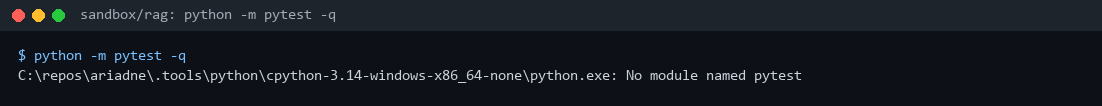
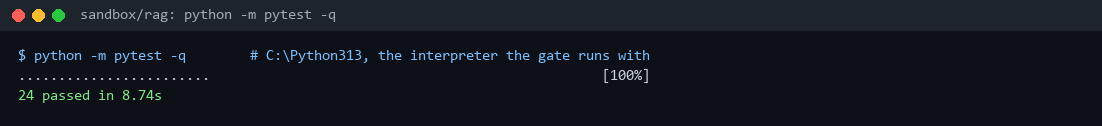
Todo app case study; RAG pytest capture re-taken with the gate's interpreter (the first capture used one without pytest)

diff --git a/case_study/TODO_case_study.md b/case_study/TODO_case_study.md
@@ -1,0 +1,81 @@
+# Case study: a todo app, the coding flow's first full run
+
+The first job Ariadne ran end to end: a small command-line todo app, built in an empty git repo by local models on
+a laptop. It is a small task on purpose. It shows the whole drill working once (brief, gates, plan, sign-off,
+execute, QA, report), and it surfaced most of the harness bugs that the later RAG work would have hit.
+
+**Machine:** RTX 3070 Laptop (8 GB VRAM), 32 GB RAM, Windows 11. llama.cpp b12359 behind llama-swap, Hermes pinned
+at `458a0046ad`. Run date: 17 November 2026.
+
+**Result:** done. Every gate passed after 3 QA rounds: 18 tests, a README and a clean commit (`8480a7e`).
+
+## The brief and its gates
+
+The brief asked for a stdlib-only Python package with JSON storage and five commands (`add`, `list`, `done`,
+`remove`, `clear-done`), stable ids, clear errors, pytest tests and a README, committed when the tests pass.
+
+The gates, written before anything started:
+
+| Gate | Kind |
+|---|---|
+| `python -m pytest -q` passes | command |
+| Every command has a test; unknown ids give a clear error and a non-zero exit | review |
+| After `add a`, `add b`, `remove 1`, `add c`, the ids listed are 2 and 3 | review |
+| README documents every command and the storage-file override | review |
+| The work is committed (clean working tree) | review |
+
+## Four runs to get there
+
+The task itself never changed. The first three runs failed on the harness, not the app:
+
+| Run | What happened | Fix in Ariadne |
+|---|---|---|
+| 1 | Failed at plan: Hermes rejects model and toolset flags when resuming a session | Start each session with full flags, then resume it by id without them |
+| 2 | The dense Qwen3.8 27B ran steps 1-2 for 32 minutes at ~2 tok/s without writing a file | 27B plans only; execution moved to the Qwen3.6 35B-A3B MoE, reasoning set to low |
+| 3 | The 27B's plan ran out of its 15-minute budget, and the KV save then took 411 s | Plan budget raised to 45 minutes; a stopped run now also stops its Hermes gateway |
+| 4 | Done | |
+
+## Run 4
+
+![From brief to done](img/todo-events.png)
+
+**Plan: 35 minutes on the 27B.** Slow, but the best plan of the whole validation. The planner noticed the
+workspace already held a package from run 2, read it, and planned around it:
+- smoke-test the existing code first;
+- tests use `tmp_path`, never the workspace's `todo.json`;
+- a `.gitignore`, so running the tests can't dirty the tree before the "clean tree" gate;
+- the exact id-stability sequence from gate 3 as a test.
+
+**Sign-off:** approved with every step on `qwen3.6-35b-a3b`. The plan's KV cache was parked (17,671 tokens in
+2.1 s) and woken for the checkpoint.
+
+**Execute: 15 minutes on the MoE** (21:39-21:54). Tests, README, `.gitignore` and the commit.
+
+**QA: three rounds for one gate.** The reviewer passed all four review gates every round. The command gate failed
+twice: Ariadne runs gates in the system shell, where `python` was a Python 3.13 without pytest, while the agent had
+run its tests with a different interpreter. On round 3 the agent installed pytest for that interpreter, and every
+gate passed. Each round woke its parked cache in about 2 s (20-27K tokens).
+
+## Checking it myself
+
+The command gate, run the way QA runs it:
+
+![pytest](img/todo-pytest.png)
+
+Gates 2 and 3 by hand: ids stay stable after a removal, and an unknown id fails with a clear message and exit 1:
+
+![Smoke test](img/todo-smoke.png)
+
+## Lessons
+
+1. **Dense models plan well and execute slowly.** On 8 GB the 27B wrote the best plan of the run, but at ~2 tok/s
+   it could not finish a small app. Plan on whatever thinks best; execute on a fast MoE.
+2. **Gates must run in the same environment as the work.** Three QA rounds went to `No module named pytest`. That
+   is now a lesson in the shared planning skill (run every gate command exactly as QA will, and install what it
+   needs there); a per-workspace environment is on the TODO list.
+3. **A good plan checks what is already there.** Starting with a smoke test of existing code instead of rewriting
+   it saved most of the execute time.
+4. **The harness bugs surface on the smallest task.** Resume flags, KV slot overwrites, gateways left generating:
+   all were found here, before the RAG work depended on them.
+
+The RAG design and build, the larger case study, is in [RAG_case_study.md](RAG_case_study.md).

diff --git a/case_study/RAG_case_study.md b/case_study/RAG_case_study.md
@@ -12,7 +12,7 @@ at `458a0046ad`. Run dates: 17-18 November 2026.
 
 | Piece | Status |
 |---|---|
-| Warm-up: todo app (coding flow) | Done. All 5 gates passed, 18 tests. |
+| Warm-up: todo app (coding flow) | Done. All 5 gates passed, 18 tests. Its own case study: [TODO_case_study.md](TODO_case_study.md) |
 | RAG design (design flow) | Done. About 85%, which clears the 80% bar set for it. |
 | RAG build v1 (coding flow) | In progress: QA iteration 3. The core library and 24 tests are done. The real ingest, README transcripts and eval are not done yet, held back by model swap thrash (see below). |
 
